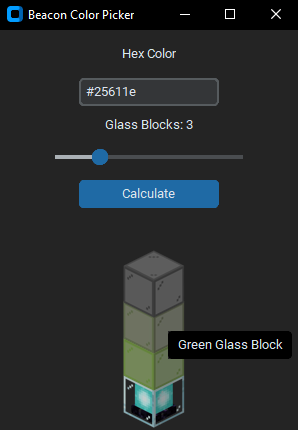
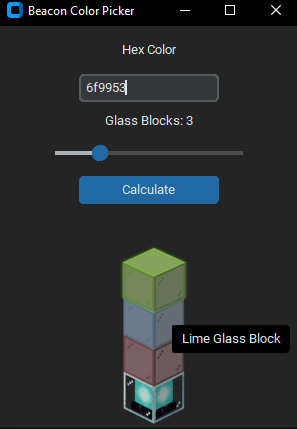
backend

Changed region(s): [[0.0, 0.0, 1.0, 0.303], [0.3939, 0.5758, 1.0, 1.0], [0.1818, 0.3333, 0.8182, 0.4848]]

diff --git a/gui_version.py b/gui_version.py
@@ -62,13 +62,11 @@ def getNextPermutation(currentPerm):
                 c[i-1] += 1
     return (c)
 
-def percentage_Match(desired_Color, current_Color):
-    error= []
-    for i in range(3):
-        error.append(abs(current_Color[i] - desired_Color[i]) / 256) # distance off
-    
-    ave_error = sum(error)/3
-    return (1 - ave_error)
+def VectorDistance(desired_Color, current_Color):
+    d = (   (desired_Color[0] - current_Color[0])**2 + 
+            (desired_Color[1] - current_Color[1])**2 + 
+            (desired_Color[2] - current_Color[2])**2)**(1/2)
+    return d
 
 def ComputeAllColoursOfOrder(n):
     initColorOrder = [0,]*n
@@ -87,15 +85,15 @@ def ComputeAllColoursOfOrder(n):
 
 def calcBeamColorAndMatch(OrderList, desired_Color):
     beam_Colors = []
-    percentage_Match_List = []
+    dist_list = []
     for order in OrderList:
         newColor = calculateBeamColor(order)
         beam_Colors.append(newColor)
 
-        p = percentage_Match(desired_Color, newColor)
-        percentage_Match_List.append(p)
+        p = VectorDistance(desired_Color, newColor)
+        dist_list.append(p)
 
-    return beam_Colors, percentage_Match_List
+    return beam_Colors, dist_list
 
 #gui
 import customtkinter as ctk
@@ -154,11 +152,11 @@ def FindGlassBlocks(n):
     desired_rgb_color = HexColorToRGB.Main(desired_color_hex)
     
     OrderList = ComputeAllColoursOfOrder(n)
-    colorList, percentageMatchList = calcBeamColorAndMatch(OrderList, desired_rgb_color)
+    colorList, distList = calcBeamColorAndMatch(OrderList, desired_rgb_color)
 
     #determine max
-    maxMatch = max(percentageMatchList)
-    maxIndex = percentageMatchList.index(maxMatch)
+    maxMatch = min(distList)
+    maxIndex = distList.index(maxMatch)
     
     bestOrder = OrderList[maxIndex]
     bestOrder = [rgbToColour[color] for color in bestOrder]

diff --git a/console_version.py b/console_version.py
@@ -135,23 +135,34 @@ def FindGlassBlocks(n, RGB_vec):
 rgb = []
 
 import random
-import time
+for n in range(1):
+    for i in range(16589):
+        rgb.append((random.randrange(0, 256), random.randrange(0, 256), random.randrange(0, 256)))
 
-start = time.time()
-for i in range(16589):
-    rgb.append((random.randrange(0, 256), random.randrange(0, 256), random.randrange(0, 256)))
+    #average
+    dist_sum = 0
+    minDistList = []
+    for color in rgb:
+        bestOrder, minDist = FindGlassBlocks(n+1, color)
+        minDistList.append(minDist) # for standard deviation
 
-rgbsum = 0
-First = True
-for color in rgb:
-    bestOrder, minDist = FindGlassBlocks(3, color)
-    rgbsum = rgbsum + minDist
+    import matplotlib.pyplot as plt
 
-end = time.time()
-elapsed_time = end - start
+    x = []
+    for i in range(len(minDistList)):
+        x.append(i)
+    y = minDistList
 
-ave_distance = rgbsum/len(rgb)
-print(ave_distance, elapsed_time)
+    # Create scatter plot
+    plt.scatter(x, y)
+
+    # Add labels and title
+    plt.xlabel('X values')
+    plt.ylabel('Y values')
+    plt.title('Scatter Plot Example')
+
+    # Display the plot
+    plt.show()
 #https://static.wikia.nocookie.net/minecraft_gamepedia/images/2/25/Beacon_JE6_BE2.png/revision/latest?cb=20241106154445
 #https://www.youtube.com/watch?v=GMHtpH68Glo
 #https://minecraft.fandom.com/wiki/Dye#Dyeing_armor
